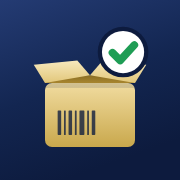
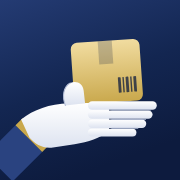
Picking v2.4 — แป้นตัวเลขแทน prompt + ไอคอนใหม่ (มือถือกล่อง)
- แตะตัวเลขบนการ์ด → แผ่นแป้นตัวเลขเลื่อนขึ้นจากล่าง (ล้าง 0 · ครบ · ⌫ · บันทึก)
- รองรับแป้นจริง (เลข/Backspace/Enter/Esc) · เครื่องยิงยิงบาร์โค้ดตอนเปิดแป้น = นับสินค้าแทน
- ไอคอน: มือหงายถือกล่องที่มีบาร์โค้ด (navy/gold) ทุกขนาด

diff --git a/rattana-picking.html b/rattana-picking.html
@@ -7,7 +7,7 @@
 <meta name="apple-mobile-web-app-status-bar-style" content="black-translucent">
 <meta name="theme-color" content="#f2f2f7">
 <meta name="apple-mobile-web-app-title" content="Picking">
-<title>Rattana Picking v2.3</title>
+<title>Rattana Picking v2.4</title>
 <link rel="icon" type="image/svg+xml" href="icons/rattana-picking.svg">
 <link rel="icon" type="image/png" sizes="32x32" href="icons/rattana-picking-32.png">
 <link rel="icon" type="image/png" sizes="192x192" href="icons/rattana-picking-192.png">
@@ -257,6 +257,25 @@ body.dark .it-sub{color:var(--gold-light)}
 .sheet-body{padding:6px 16px 12px}
 .sheet-foot{display:flex;gap:10px;padding:8px 16px 16px;position:sticky;bottom:0;background:var(--bg)}
 .sheet-foot .btn{flex:1}
+/* number pad (v2.4 — แทน prompt()) */
+.pad-head{display:flex;gap:12px;align-items:center;background:var(--card);border-radius:var(--r-m);padding:10px;box-shadow:var(--sh)}
+.pad-head .thumb{width:56px;height:56px;flex-shrink:0}
+.pad-head .nm{font-weight:600;font-size:15px;line-height:1.3}
+.pad-head .q{font-size:13px;color:var(--sec);margin-top:2px}
+.pad-disp{text-align:center;margin:14px 0 12px}
+.pad-disp .v{font-size:56px;font-weight:700;letter-spacing:-1.5px;font-variant-numeric:tabular-nums;line-height:1.05;transition:color .15s}
+.pad-disp .v.fresh{color:var(--ter)}
+.pad-disp .v.over{color:var(--red)}.pad-disp .v.full{color:var(--green)}
+.pad-disp .of{font-size:15px;color:var(--sec);margin-top:2px}
+.pad-quick{display:grid;grid-template-columns:1fr 1fr;gap:8px;margin-bottom:8px}
+.pad-quick button{height:46px;border-radius:12px;font-size:16px;font-weight:600;background:var(--fill);color:var(--tint)}
+.pad-quick .full{background:var(--ok-bg);color:#248a3d}
+body.dark .pad-quick .full{color:#30d158}
+.pad-grid{display:grid;grid-template-columns:repeat(3,1fr);gap:8px}
+.pad-grid button{height:60px;border-radius:14px;background:var(--card);box-shadow:var(--sh);font-size:27px;font-weight:500;font-variant-numeric:tabular-nums;transition:background .08s,transform .08s}
+.pad-grid button:active{background:var(--fill2);transform:scale(.96)}
+.pad-grid .back{font-size:22px;color:var(--sec)}
+.pad-grid .ok{background:var(--tint);color:var(--on-tint);font-size:18px;font-weight:700}
 .sum{display:grid;grid-template-columns:repeat(3,1fr);gap:8px;margin:4px 0 14px}
 .sum div{background:var(--card);border-radius:var(--r-m);padding:12px 6px;text-align:center;box-shadow:var(--sh)}
 .sum b{display:block;font-size:26px;letter-spacing:-.5px}
@@ -322,7 +341,7 @@ body.dark .it-sub{color:var(--gold-light)}
   <!-- HOME -->
   <div id="v-home">
     <nav class="navbar">
-      <div class="brand"><b>RATTANA</b>Picking<small>v2.3</small></div>
+      <div class="brand"><b>RATTANA</b>Picking<small>v2.4</small></div>
       <div class="nav-space"></div>
       <button class="circ" id="btnRefresh" onclick="refreshData()" title="รีเฟรช">↻</button>
       <button class="circ" id="themeBtn" onclick="toggleTheme()" title="สลับธีม">🌙</button>
@@ -433,7 +452,8 @@ body.dark .it-sub{color:var(--gold-light)}
 
 <script>
 /* ═══════════════════════════════════════════════════════════
-   Rattana Picking v2.3
+   Rattana Picking v2.4
+     v2.4: แป้นตัวเลขแทน prompt() · ไอคอนใหม่ (มือถือกล่อง)
      v2.3: ไอคอนแอพ (icons/rattana-picking*) + manifest ติดตั้งลงหน้าจอโฮมได้
      v2.2: หน้าตาแบบ iOS · รูปสินค้า (Stocksync SKU_USAGE) · ปุ่ม "สแกนงาน"
            · เครื่องยิงบาร์โค้ด (ยิงแล้ว Enter) ใช้ได้ทุกหน้าโดยไม่ต้องแตะช่อง
@@ -443,7 +463,7 @@ body.dark .it-sub{color:var(--gold-light)}
      • เป็นชุด  — ใบจัดสินค้า W1-01-02-061126 (คลัง-หน่วยรถ-คนจัด-วันที่)
                   สร้างรายการด้วยกติกาเดียวกับ Rattana Picker (pkDocs v25.x)
    ═══════════════════════════════════════════════════════════ */
-const APP_VERSION = '2.3';
+const APP_VERSION = '2.4';
 
 const CONFIG = {
   ORDER_FILE:   '1DAyVrekM_49HGvhhGSRxqR_I0T7P3C8m',   // Doc W1.xlsx (B = ใบจอง · D = บิล)
@@ -974,11 +994,51 @@ function scrollToItem(idx){ const el=$('item-'+idx); if(el&&!$('s-scanner').clas
 function setPicked(idx,val){ const p=progress[curJob.key]; p.picked[idx]=Math.max(0,Math.round(val*1000)/1000); saveProg(); lastIdx=idx; renderPick(); }
 function adjQty(idx,d){ setPicked(idx,(progress[curJob.key].picked[idx]||0)+d); }
 function setFull(idx){ const it=curJob.items[idx]; setPicked(idx,(progress[curJob.key].picked[idx]||0)>=it.qty?0:it.qty); }
-function setQtyPrompt(idx){
-  const it=curJob.items[idx], p=progress[curJob.key];
-  const v=prompt(`จำนวนที่หยิบได้: ${it.name}\n(ต้องหยิบ ${fmtN(it.qty)} ${it.unitName||it.unit})`,p.picked[idx]||0);
-  if(v===null) return; const n=num(v); if(n<0) return showToast('จำนวนไม่ถูกต้อง','error'); setPicked(idx,n);
+/* ═══ แป้นตัวเลข (v2.4) — แตะตัวเลขบนการ์ด → แผ่นตัวเลขเลื่อนขึ้นจากล่าง แทน prompt() ═══
+   แป้นจริง/เครื่องยิง: พิมพ์เลข · Backspace · Enter = บันทึก · Esc = ปิด
+   ถ้า Enter มาพร้อมเลขยาว ≥7 หลัก = เครื่องยิงบาร์โค้ดยิงเข้ามา → ส่งไปนับสินค้าแทน */
+let PAD=null;   // {idx, val, fresh}
+function setQtyPrompt(idx){ openQtyPad(idx); }
+function openQtyPad(idx){
+  const it=curJob.items[idx], cur=progress[curJob.key].picked[idx]||0;
+  openModal('จำนวนที่หยิบ',`
+    <div class="pad-head">${thumbHtml(it.img,it.unit)}<div style="min-width:0"><div class="nm">${esc(it.name)}</div><div class="q">ต้องหยิบ ${fmtN(it.qty)} · ${esc(it.unitName||UNIT_TH[it.unit]||it.unit)}</div></div></div>
+    <div class="pad-disp"><div class="v fresh" id="padVal">${fmtN(cur)}</div><div class="of">จาก ${fmtN(it.qty)}</div></div>
+    <div class="pad-quick"><button onclick="padKey('clear')">ล้าง 0</button><button class="full" onclick="padKey('full')">✓ ครบ ${fmtN(it.qty)}</button></div>
+    <div class="pad-grid">${['1','2','3','4','5','6','7','8','9'].map(d=>`<button onclick="padKey('${d}')">${d}</button>`).join('')}
+      <button class="back" onclick="padKey('back')" aria-label="ลบ">⌫</button><button onclick="padKey('0')">0</button><button class="ok" onclick="padOk()">บันทึก</button></div>`,'');
+  PAD={idx, val:String(cur), fresh:true};
 }
+function renderPad(){
+  if(!PAD) return; const it=curJob.items[PAD.idx], n=num(PAD.val||'0'), el=$('padVal');
+  el.textContent=PAD.val===''?'0':fmtN(n);
+  el.className='v'+(PAD.fresh?' fresh':n>it.qty?' over':n===it.qty?' full':'');
+}
+function padKey(k,fromKbd){
+  if(!PAD) return;
+  const it=curJob.items[PAD.idx];
+  if(k==='full'){ PAD.val=String(it.qty); return padOk(); }
+  if(k==='clear'){ PAD.val=''; PAD.fresh=false; }
+  else if(k==='back'){ PAD.val=PAD.fresh?'':PAD.val.slice(0,-1); PAD.fresh=false; }
+  else if(/^\d$/.test(k)){
+    if(PAD.fresh){ PAD.val=''; PAD.fresh=false; }
+    if(PAD.val==='0') PAD.val='';
+    if(fromKbd || PAD.val.length<5) PAD.val+=k;          // แตะ: สูงสุด 5 หลัก · แป้นจริง: ปล่อยยาวได้ (อาจเป็นบาร์โค้ด)
+  }
+  renderPad();
+}
+function padOk(){
+  if(!PAD) return; const {idx,val}=PAD; closeModal();
+  if(val.length>=7){ handleCode(val); return; }          // เครื่องยิงยิงบาร์โค้ดเข้ามาระหว่างเปิดแป้น
+  setPicked(idx,num(val||'0'));
+}
+document.addEventListener('keydown',e=>{
+  if(!PAD || !$('modal').classList.contains('open')) return;
+  if(/^\d$/.test(e.key)){ e.preventDefault(); padKey(e.key,true); }
+  else if(e.key==='Backspace'){ e.preventDefault(); padKey('back'); }
+  else if(e.key==='Enter'){ e.preventDefault(); padOk(); }
+  else if(e.key==='Escape'){ e.preventDefault(); closeModal(); }
+},true);
 /* Core: product barcode scanned / typed */
 function handleCode(raw){
   if(!curJob) return;
@@ -1094,7 +1154,7 @@ async function flushQueue(manual){
 
 /* ═════════ SHEET (MODAL) ═════════ */
 function openModal(t,b,f){ $('modalTitle').textContent=t; $('modalBody').innerHTML=b; $('modalFoot').innerHTML=f||''; $('modalFoot').classList.toggle('hidden',!f); $('modal').classList.add('open'); }
-function closeModal(){ $('modal').classList.remove('open'); }
+function closeModal(){ $('modal').classList.remove('open'); PAD=null; }
 
 /* ═════════ CAMERA SCANNER (Rattana html5-qrcode pattern) ═════════ */
 let html5QrScanner=null, scannerActive=false, lastScanned='', lastScanAt=0, torchOn=false, torchTrack=null, scanMode='pick';
